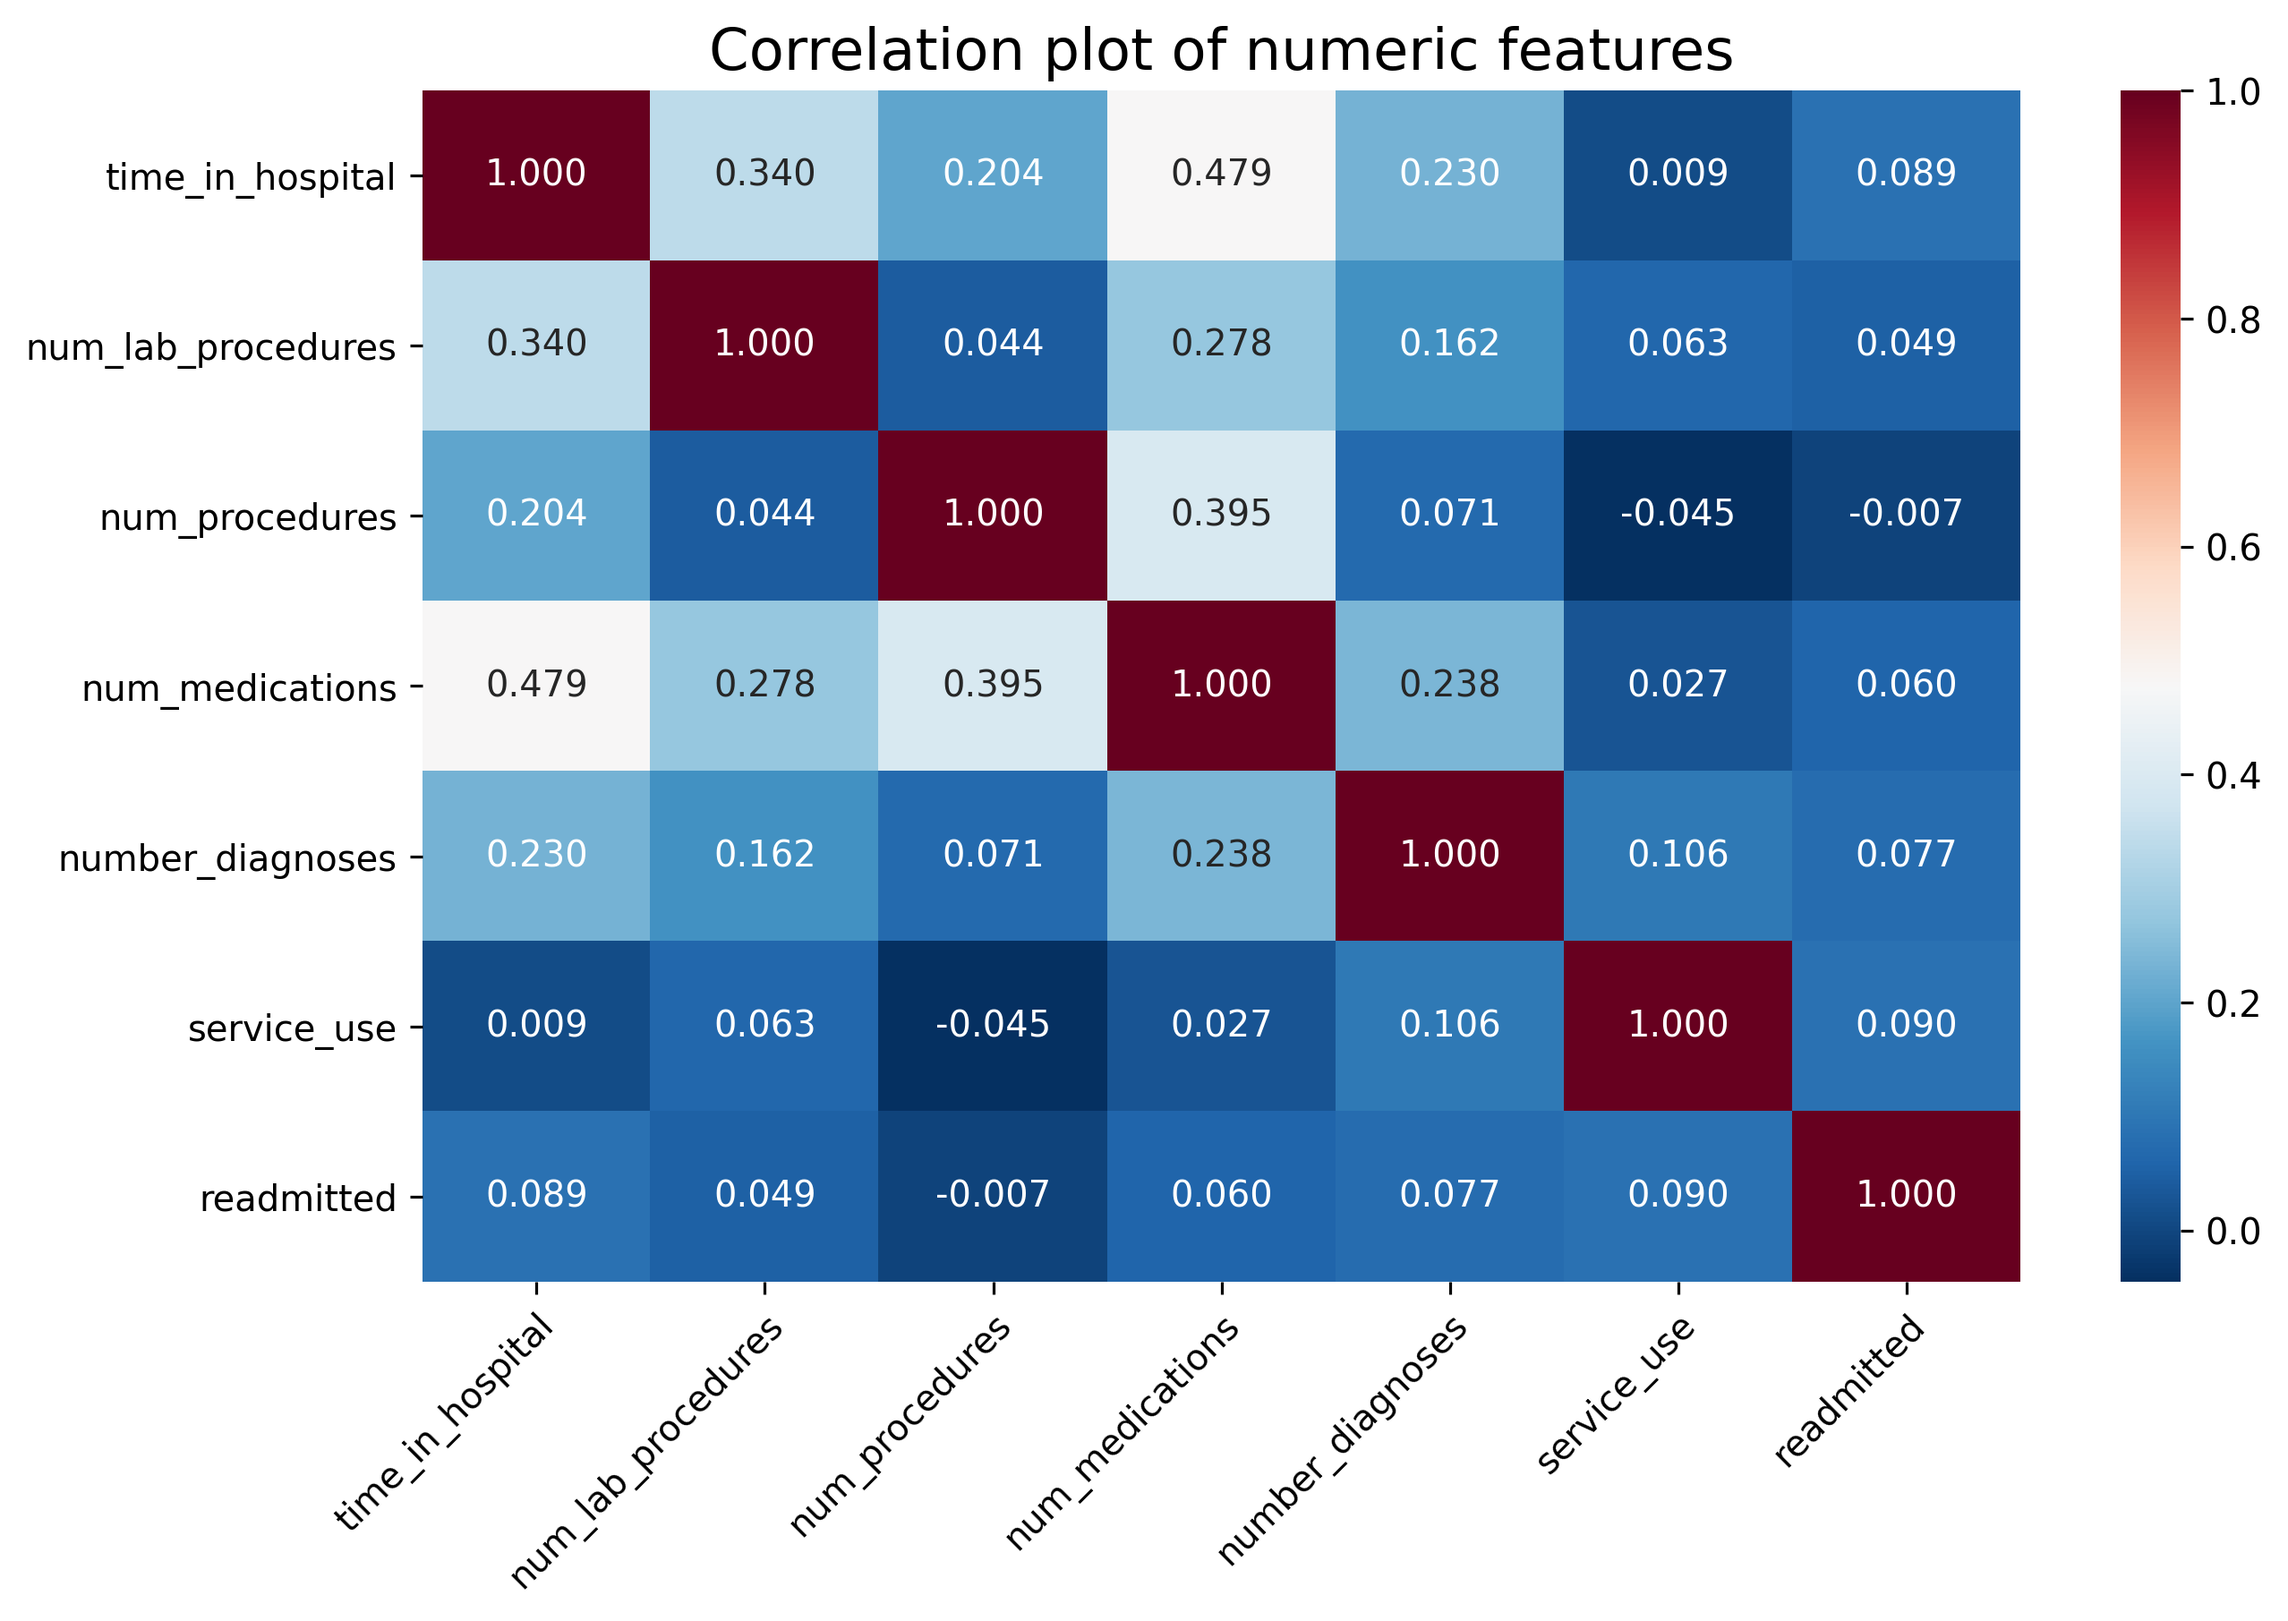
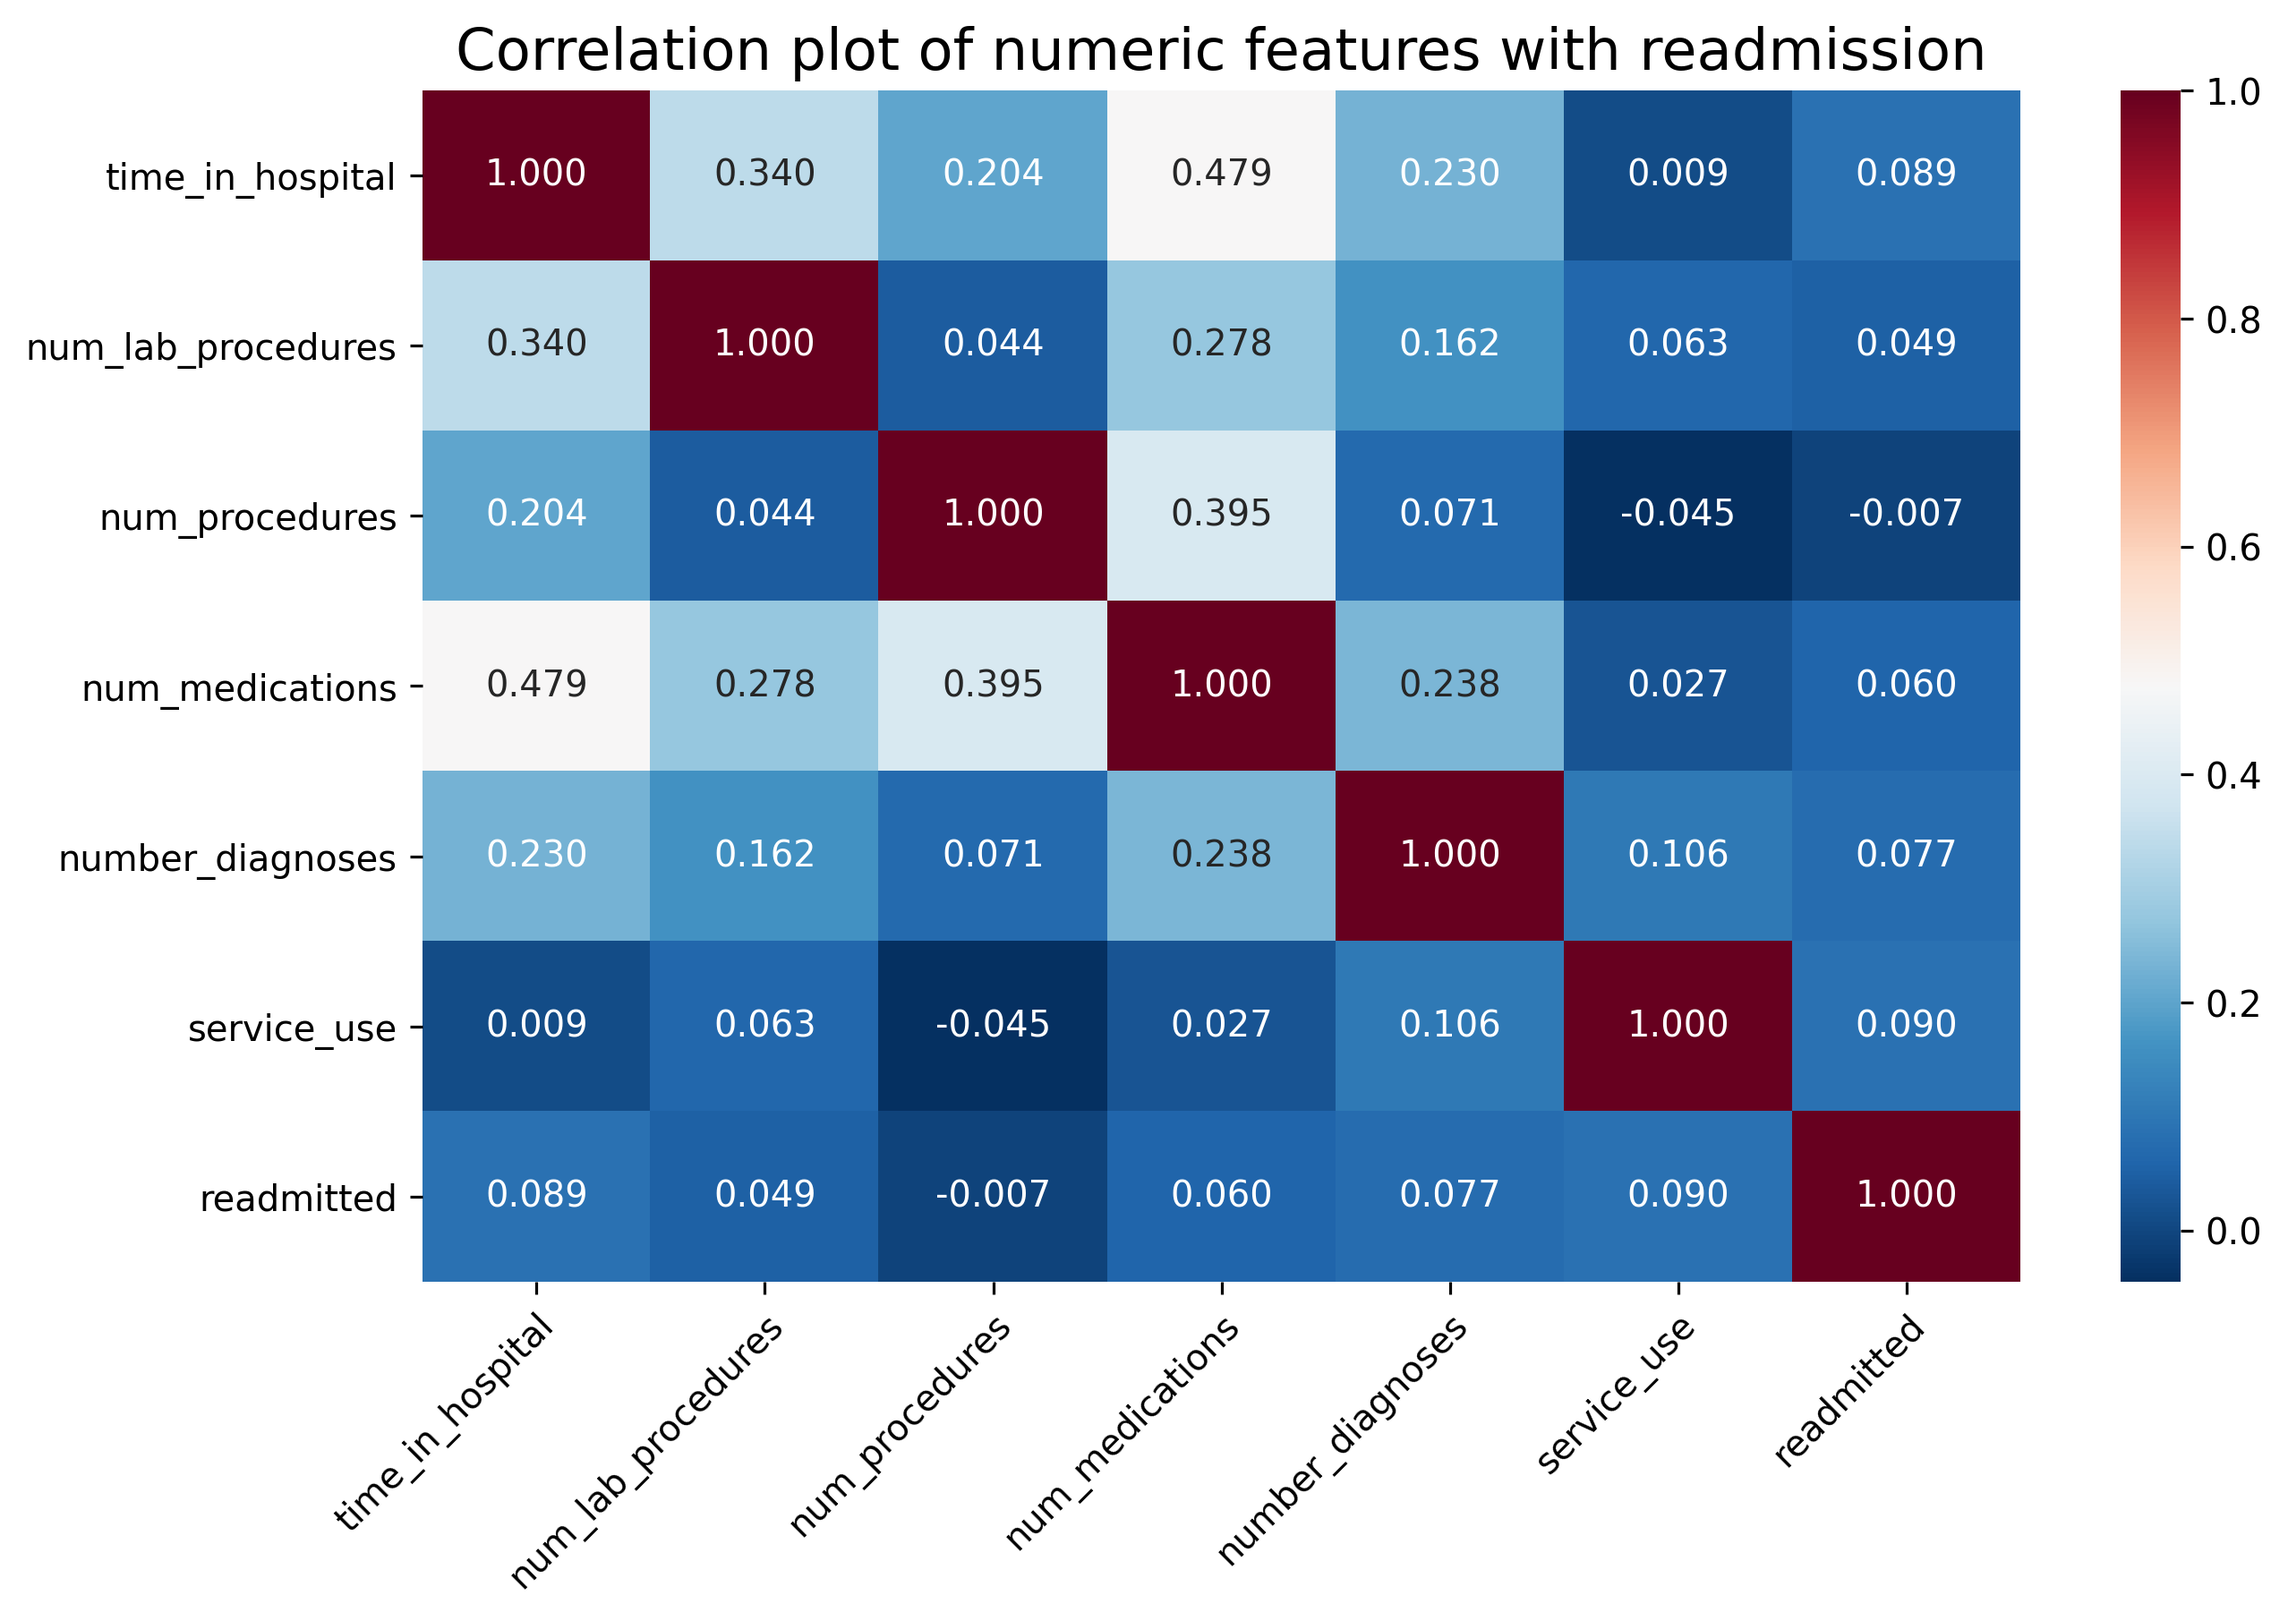
Changed plot to show correlations with readmission

Changed region(s): [[0.2164, 0.0, 0.8654, 0.0618]]

diff --git a/correlation_plot.py b/correlation_plot.py
@@ -19,5 +19,5 @@ fig, axes = plt.subplots(figsize=(10, 6))
 sns.heatmap(corrs, cmap='RdBu_r', fmt='1.3f', annot=True, annot_kws={'fontsize': 10}, ax=axes)
 plt.setp(axes.get_xticklabels(), ha="right", rotation_mode="anchor", rotation=45, fontsize=10)
 plt.setp(axes.get_yticklabels(), ha="right", rotation_mode="anchor", rotation=0, fontsize=10)
-plt.title('Correlation plot of numeric features', fontsize=16)
+plt.title('Correlation plot of numeric features with readmission', fontsize=16)
 plt.savefig(work_dir / 'plots/corr_plot.png', dpi=288, bbox_inches='tight')
